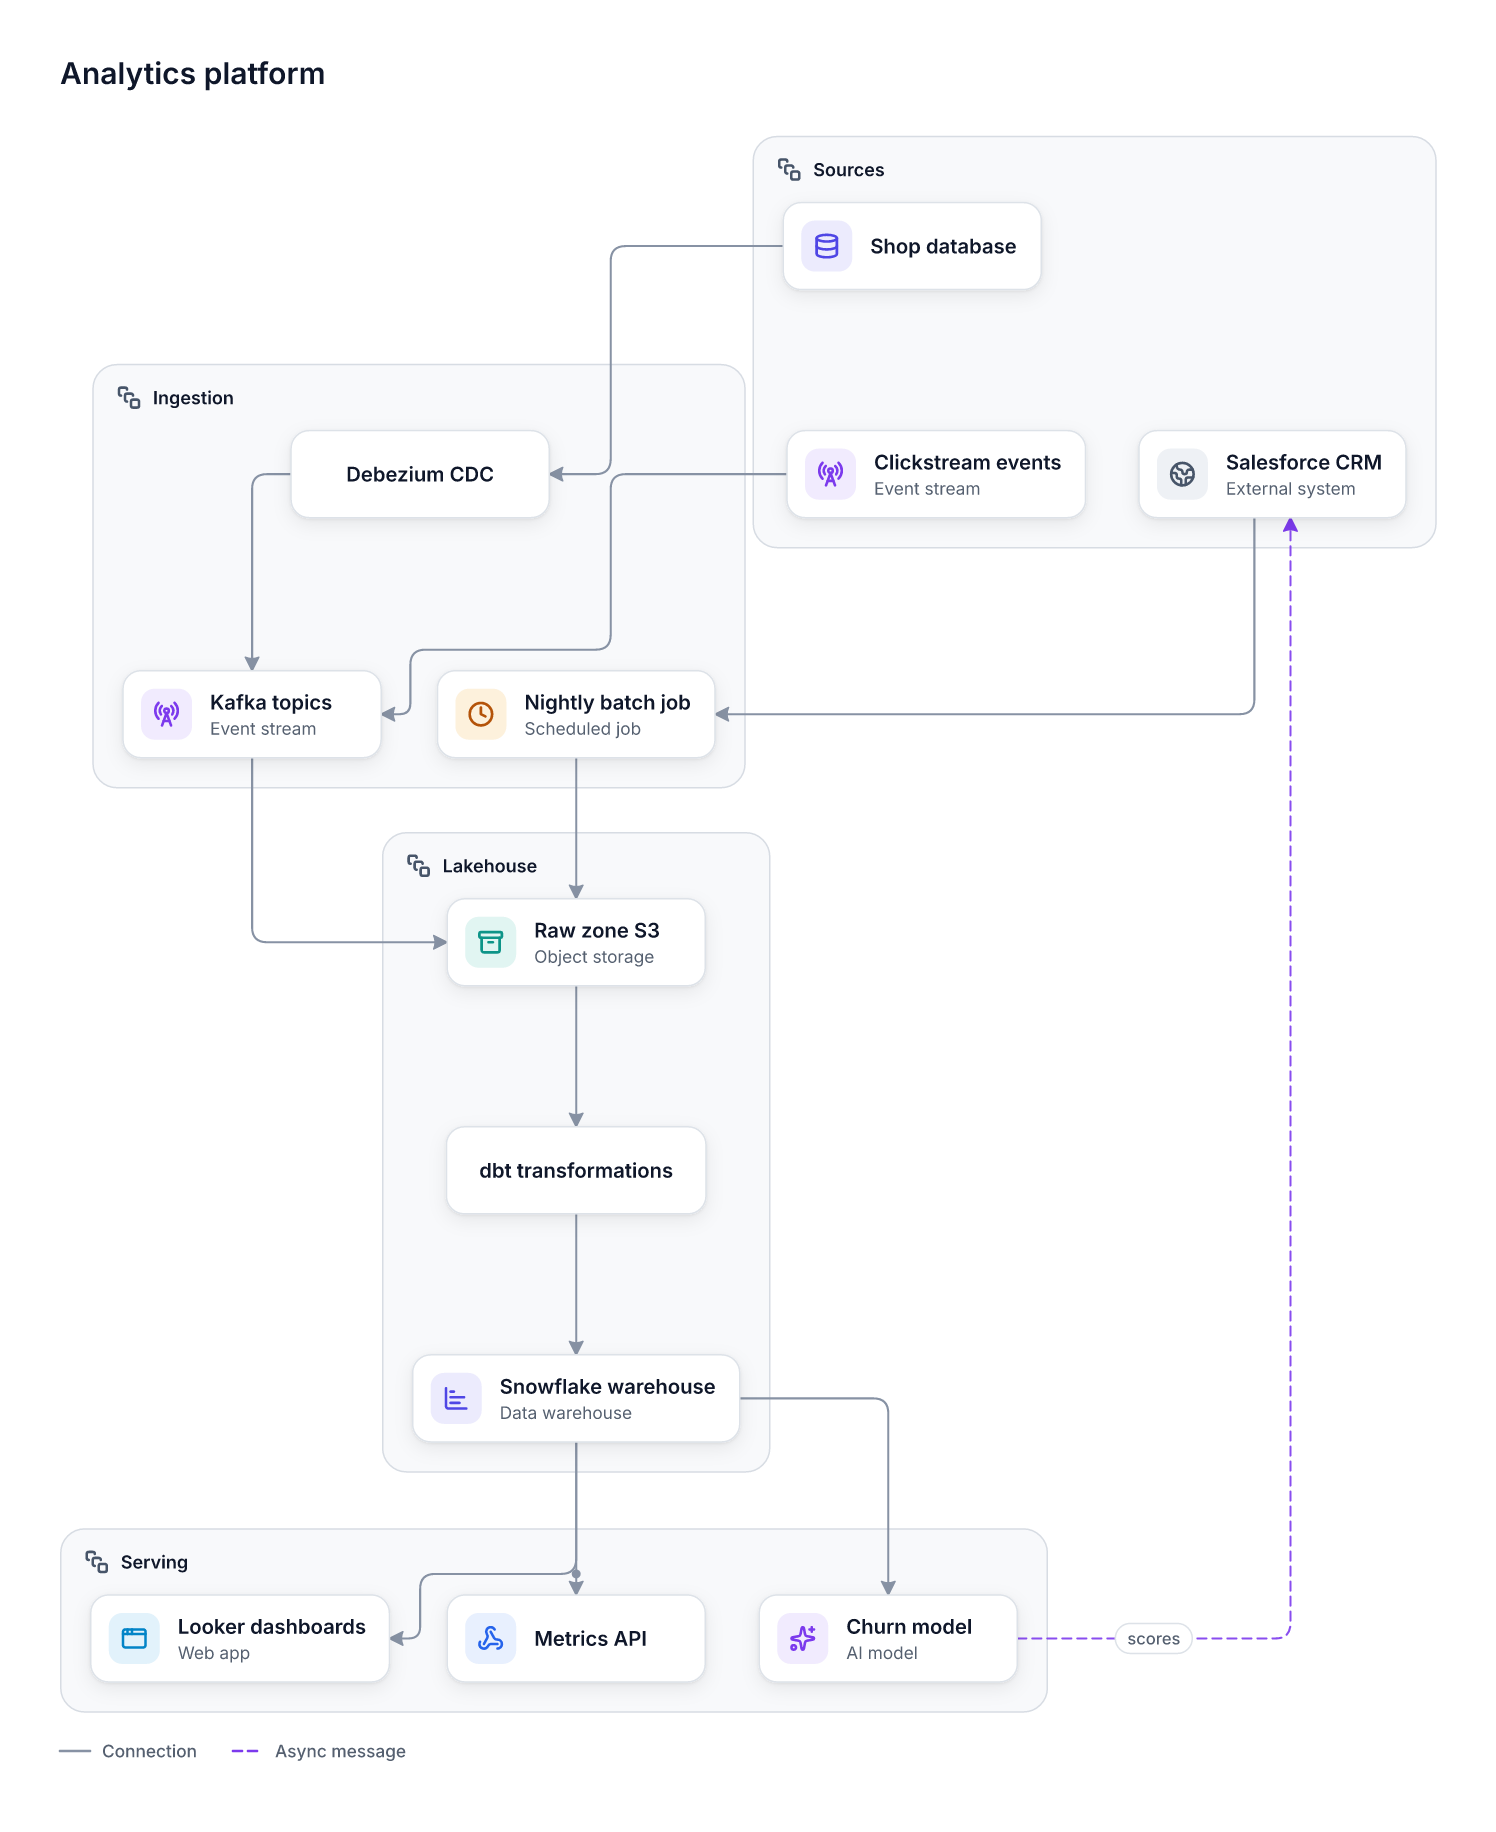
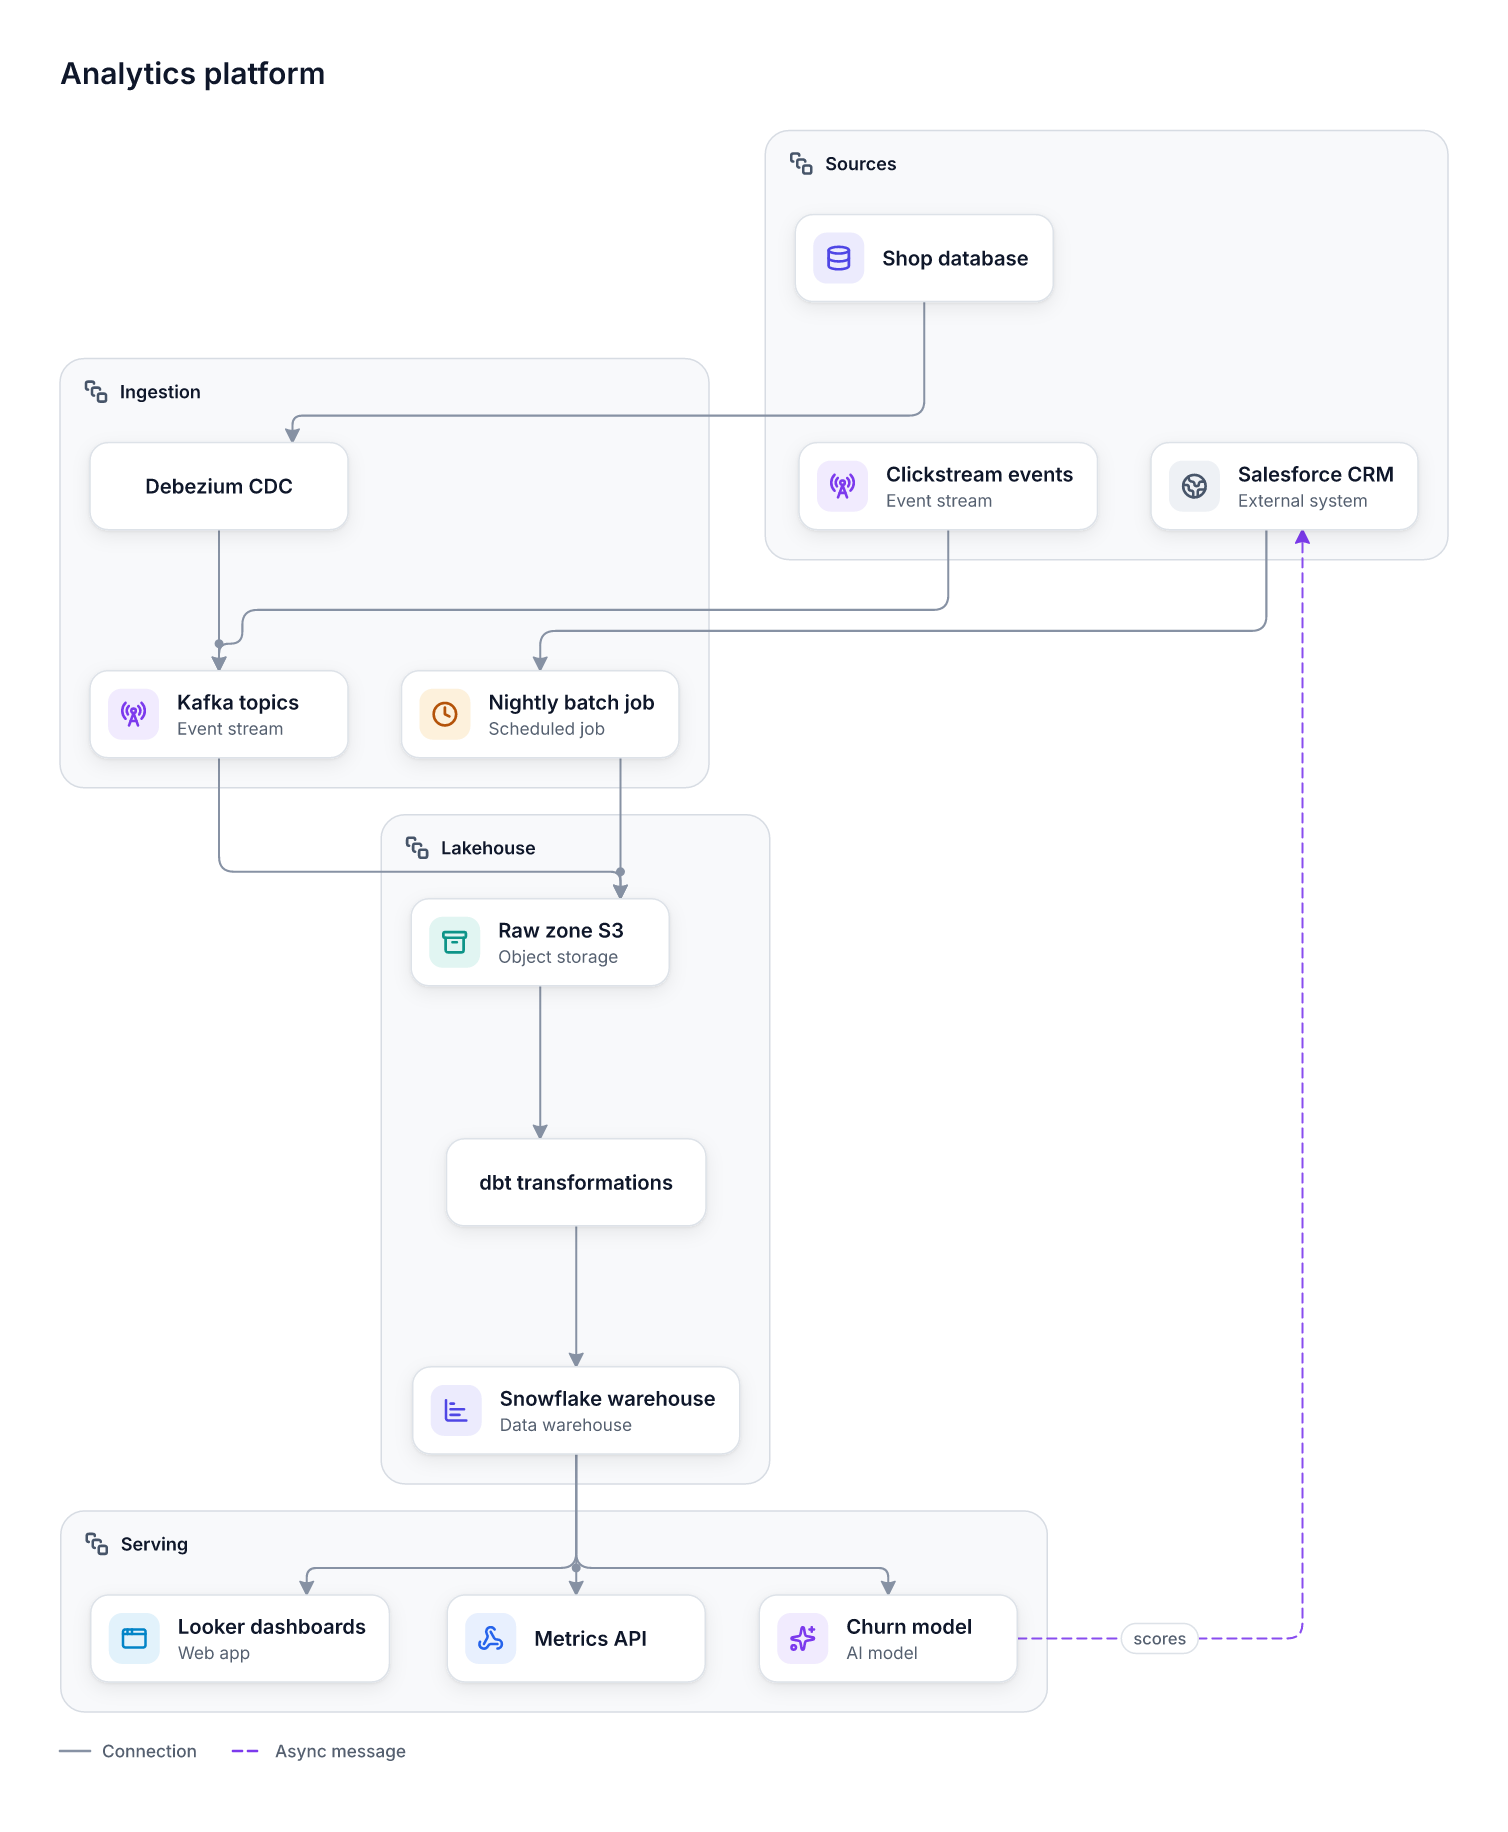
Layout: draw every dot variant in full for small diagrams; aspect only costs at extremes
Lab total 2061 → 1760, crossings 8 → 5. Square-to-wide drawings all read fine on a page,
so a portrait top-down drawing no longer loses to a messier wider one.

diff --git a/packages/layout/src/index.ts b/packages/layout/src/index.ts
@@ -49,19 +49,15 @@ async function layoutOnce(sized: Sized, spacing: Spacing, sidecar: LayoutSidecar
   if (!graph.nodes.length && !graph.groups.length) return { placed: { nodes: new Map(), groups: new Map(), edges: new Map(), width: 0, height: 0, shift: { x: 0, y: 0 } }, score: 0 };
   const pinned = Object.keys(sidecar?.nodes ?? {}).length + Object.keys(sidecar?.groups ?? {}).length > 0;
   // dot ranks and orders differently when asked differently, and no one way suits every diagram.
-  // Small diagrams also try a few other ways, each drawn once cheaply; the most promising of those
-  // gets the full treatment next to dot's own, and the better of the two is kept. Big diagrams, and
+  // Small diagrams also try a few other ways, each drawn in full, and the best-scoring one is kept. Big diagrams, and
   // pinned ones (whose pins were set on one placement), ask once.
   const others: DotVariant[] = tuning.dot || graph.nodes.length > VARIANT_LIMIT || pinned ? [] : [{ sameRank: true }, { attrs: 'ordering=out' }, { sameRank: true, reverse: true }];
-  const own = await candidates(sized, spacing, sidecar, tuning, tuning.dot ?? {});
-  let pick: { variant: DotVariant; score: number } | undefined;
+  let best = await candidates(sized, spacing, sidecar, tuning, tuning.dot ?? {});
   for (const variant of others) {
-    const sc = (await candidates(sized, spacing, sidecar, { ...tuning, compact: tuning.compact ?? true, align: tuning.align ?? false }, variant)).score;
-    if (!pick || sc < pick.score - 1e-9) pick = { variant, score: sc };
+    const c = await candidates(sized, spacing, sidecar, tuning, variant);
+    if (c.score < best.score - 1e-9) best = c;
   }
-  if (!pick) return own;
-  const other = await candidates(sized, spacing, sidecar, tuning, pick.variant);
-  return other.score < own.score - 1e-9 ? other : own;
+  return best;
 }
 
 /** The best drawing from one dot placement: compacted or not, straightened or not. */

diff --git a/packages/layout/src/metrics.ts b/packages/layout/src/metrics.ts
@@ -114,7 +114,8 @@ export function measure(graph: Graph, placed: Placed, header = 44): LayoutMetric
  * covered labels are errors; crossings and detours hurt; shape matters for slides (target 16:9).
  */
 export function score(m: LayoutMetrics, targetAspect = 16 / 9): number {
-  const aspectPenalty = Math.abs(Math.log(m.aspect / targetAspect));
+  // Anything from about square to wide reads fine on a page or slide; only extremes cost.
+  const aspectPenalty = Math.max(0, Math.abs(Math.log(m.aspect / targetAspect)) - Math.log(1.8));
   return (
     m.edgeThroughNode * 200 +
     m.labelOverlaps * 200 +
